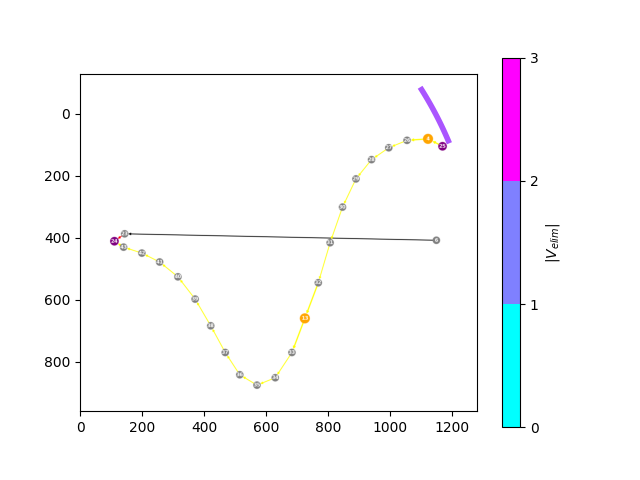
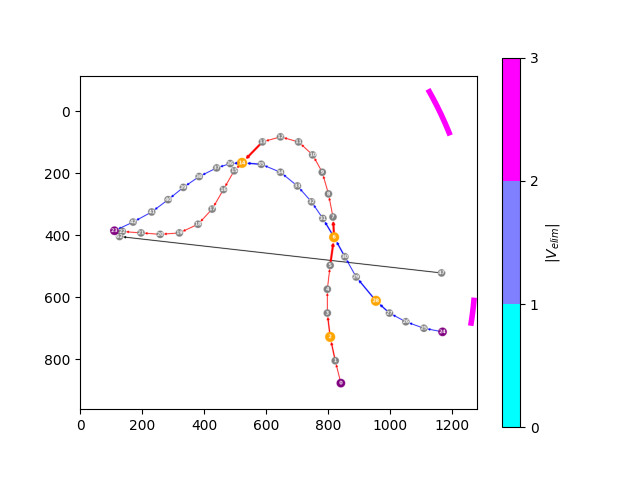
Find bug in num cx new. Also need to separate fixed endpoint

diff --git a/scripts/cable_simple_policy.py b/scripts/cable_simple_policy.py
@@ -39,7 +39,7 @@ class CableSimplePolicy:
             self.realsense = Realsense()
 
     def gen_graph_from_image(self, img):
-        cable_data = getCablesDataFromImage(img, vis=True)
+        cable_data = getCablesDataFromImage(img, vis=False)
         print(cable_data)
         self.cg.create_graphs(cable_data)
         self.cg.create_compound_graph()
@@ -180,6 +180,7 @@ class CableSimplePolicy:
         theta_range_tmp = []
         elim_num = 0
         save_path = None
+        use_min = False
         for i, theta in enumerate(thetas):
             # res_point is where we might place the grasped point
             res_point = self.get_result_point(
@@ -201,7 +202,8 @@ class CableSimplePolicy:
                     res_point_free_endpoint.tolist(),
                     cableID,
                 )
-
+                if num_cx_new < 0:
+                    use_min = True
                 tmp_elim_num = num_cx_orig - num_cx_new
                 if tmp_elim_num > 0:
                     res_ok = True
@@ -255,6 +257,7 @@ class CableSimplePolicy:
             return None
         # only return the theta ranges with the biggest elim num
         max_elim_num = np.max(list(theta_ranges.keys()))
+        min_elim_num = np.min(list(theta_ranges.keys()))
         # draw on fig the theta ranges
         angle0 = self.get_zero_theta_vector_angle(grasp_point, pivot_point)
         # for plotting
@@ -295,7 +298,11 @@ class CableSimplePolicy:
             )
             plt.savefig(f"cableGraphs/composite_with_action_space.png")
             plt.show()
-        return theta_ranges[max_elim_num]
+        return (
+            theta_ranges[min_elim_num]
+            if use_min
+            else theta_ranges[max_elim_num]
+        )
 
     def calc_cost(self, theta, length, grasp_point_id, pivot_point_id, cableID):
         """The cost is a weighted sum of

diff --git a/scripts/cable_segmentation.py b/scripts/cable_segmentation.py
@@ -24,8 +24,8 @@ class CableSegmentation:
         self.g_low = self.normalizeHSV(165, 75, 20)
         self.g_high = self.normalizeHSV(175, 100, 40)
 
-        self.b_low = self.normalizeHSV(205, 40, 25)
-        self.b_high = self.normalizeHSV(220, 75, 50)
+        self.b_low = self.normalizeHSV(205, 40, 20)
+        self.b_high = self.normalizeHSV(225, 75, 50)
 
         self.y_low = self.normalizeHSV(35, 40, 25)
         self.y_high = self.normalizeHSV(50, 88, 70)

diff --git a/scripts/my_franka.py b/scripts/my_franka.py
@@ -155,7 +155,7 @@ class MyFranka:
                 angle += np.pi
                 angle_changed = True
         elif angle_mode == ANGLE_CLIP:
-            angle = np.clip(angle, -np.pi / 2, np.pi / 2)
+            angle = np.clip(angle, -np.pi / 2 + 0.05, np.pi / 2 - 0.05)
             angle_changed = True
         r_ee0_et = R.from_euler("zyx", [angle, 0, 0])
         R_w_et = np.matmul(r_w_ee0.as_matrix(), r_ee0_et.as_matrix())
